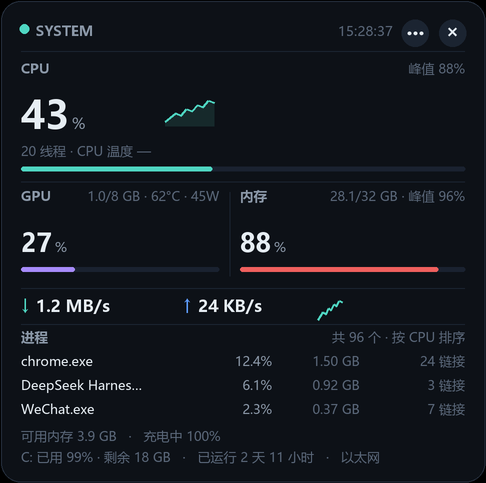
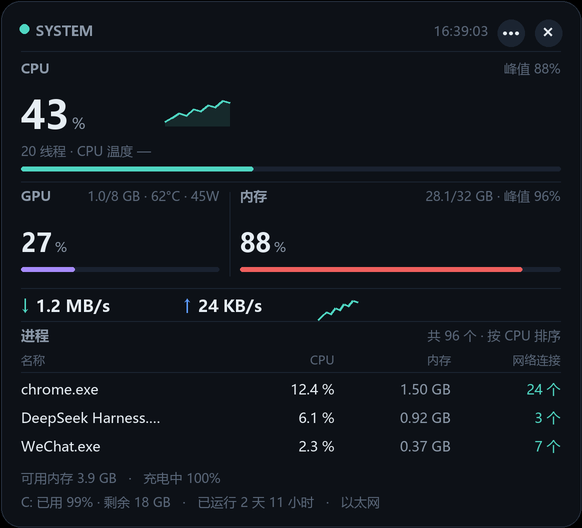
feat: 详情卡加大，进程区改成带表头的四列表格（名称 / CPU / 内存 / 网络连接）

diff --git a/README.md b/README.md
@@ -25,7 +25,7 @@
 - **零服务零联网**：采样全走 Windows API，只有渲染用 Pillow
 - **崩溃自愈**：看门狗每 3 分钟检查，进程没了自动拉起
 
-<img src="docs/images/detail.png" width="420" alt="详情">
+<img src="docs/images/detail.png" width="470" alt="详情">
 
 <table>
 <tr>
